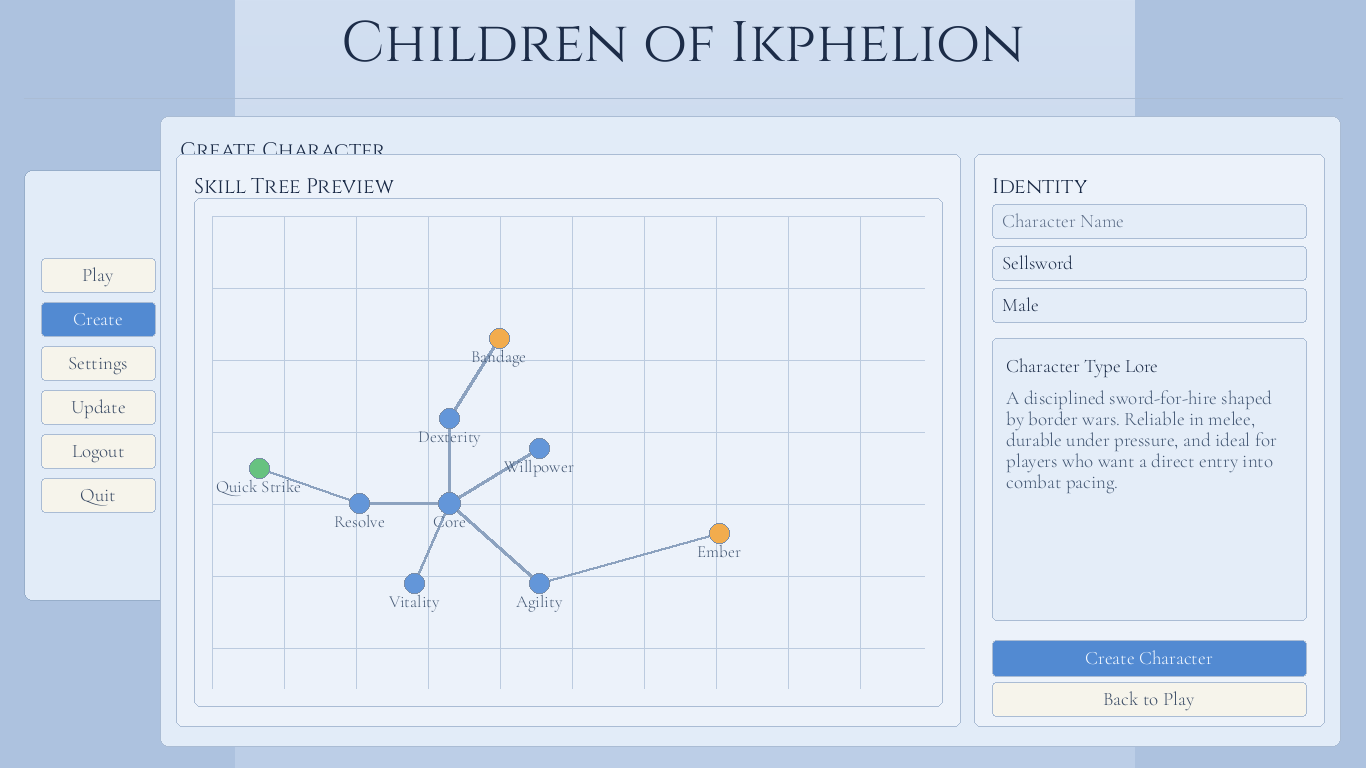
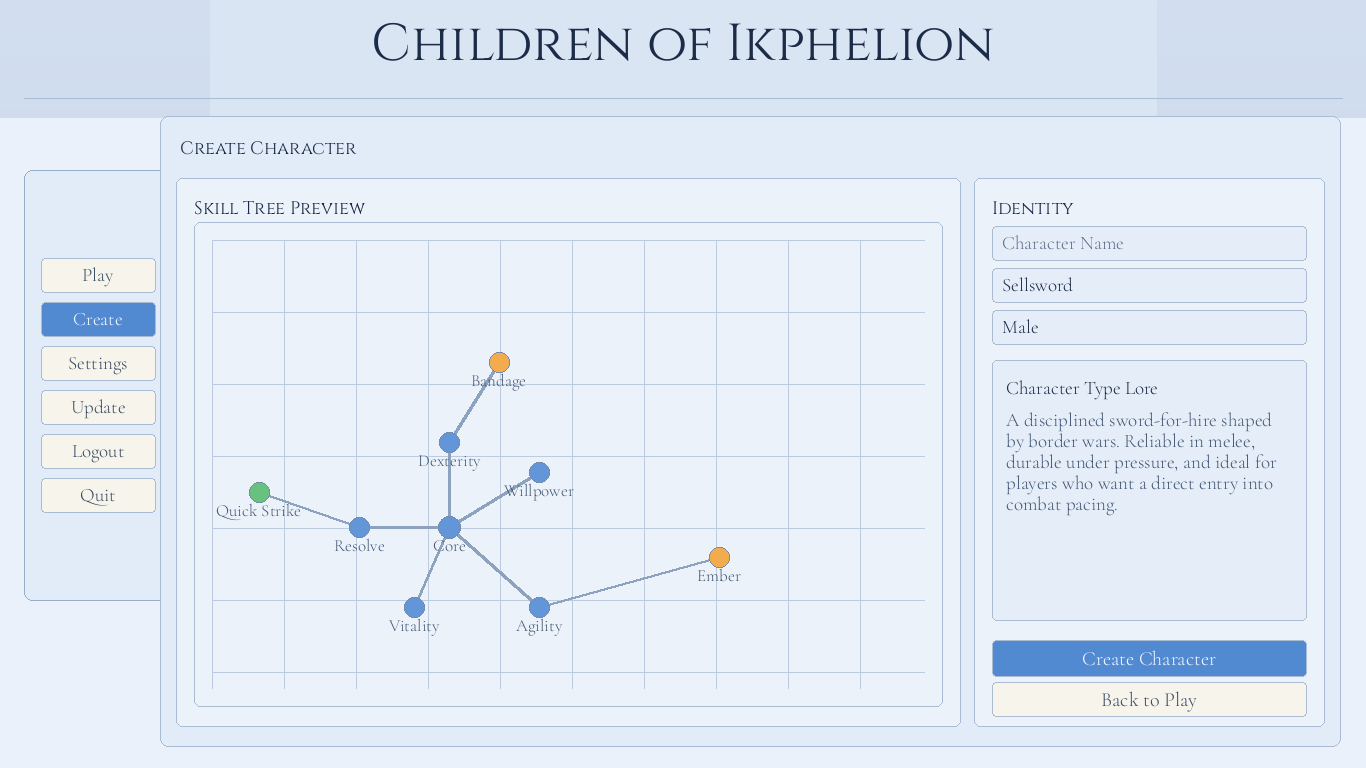
Refine UI concept art alignment, clipping, and background treatment

diff --git a/tools/generate_ui_polish_concepts.py b/tools/generate_ui_polish_concepts.py
@@ -11,9 +11,8 @@ OUT_DIR = ROOT / "concept_art"
 W, H = 1366, 768
 
 COLORS = {
-    "bg_top": (210, 223, 241),
-    "bg_bottom": (188, 206, 231),
-    "band": (173, 194, 223, 45),
+    "bg_top": (211, 223, 240),
+    "bg_bottom": (191, 209, 232),
     "shell": (226, 236, 248, 220),
     "panel": (236, 242, 250, 245),
     "panel_alt": (228, 237, 248, 245),
@@ -43,12 +42,13 @@ def _load_font(path: Path, size: int) -> ImageFont.FreeTypeFont | ImageFont.Imag
         return ImageFont.load_default()
 
 
-FONT_TITLE = _load_font(ROOT / "game-client" / "assets" / "fonts" / "cinzel.ttf", 57)
-FONT_SUBTITLE = _load_font(ROOT / "game-client" / "assets" / "fonts" / "cinzel.ttf", 21)
+FONT_TITLE = _load_font(ROOT / "game-client" / "assets" / "fonts" / "cinzel.ttf", 52)
+FONT_SUBTITLE = _load_font(ROOT / "game-client" / "assets" / "fonts" / "cinzel.ttf", 18)
 FONT_BODY = _load_font(ROOT / "game-client" / "assets" / "fonts" / "cormorant_garamond.ttf", 27)
 FONT_BODY_SM = _load_font(ROOT / "game-client" / "assets" / "fonts" / "cormorant_garamond.ttf", 22)
 FONT_BODY_XS = _load_font(ROOT / "game-client" / "assets" / "fonts" / "cormorant_garamond.ttf", 19)
 FONT_CAPTION = _load_font(ROOT / "game-client" / "assets" / "fonts" / "cormorant_garamond.ttf", 17)
+FONT_BUTTON = _load_font(ROOT / "game-client" / "assets" / "fonts" / "cormorant_garamond.ttf", 20)
 
 
 def lerp(a: int, b: int, t: float) -> int:
@@ -94,9 +94,9 @@ def draw_background(img: Image.Image):
         c = tuple(lerp(COLORS["bg_top"][i], COLORS["bg_bottom"][i], t) for i in range(3))
         draw.line([(0, y), (W, y)], fill=c + (255,))
 
-    # Atmospheric bands for depth.
-    rounded(draw, (0, 0, 234, H), COLORS["band"], radius=0)
-    rounded(draw, (1135, 0, W, H), COLORS["band"], radius=0)
+    # Flattened atmospheric treatment: subtle center wash only.
+    rounded(draw, (210, 0, 1156, H), (218, 229, 244, 62), radius=0)
+    rounded(draw, (0, 118, W, H), (235, 241, 250, 16), radius=0)
 
     # Header area.
     draw.text((W // 2, 44), "Children of Ikphelion", anchor="mm", font=FONT_TITLE, fill=COLORS["text"])
@@ -148,7 +148,13 @@ def draw_button(draw: ImageDraw.ImageDraw, rect, label: str, primary: bool = Fal
         fill = COLORS["button"]
         tfill = COLORS["button_text"]
     rounded(draw, rect, fill, radius=4, outline=COLORS["border_soft"], width=1)
-    draw.text(((rect[0] + rect[2]) // 2, (rect[1] + rect[3]) // 2), label, anchor="mm", font=FONT_BODY_XS, fill=tfill)
+    font = FONT_BUTTON
+    max_w = rect[2] - rect[0] - 12
+    if draw.textlength(label, font=font) > max_w:
+        font = FONT_BODY_XS
+    if draw.textlength(label, font=font) > max_w:
+        font = FONT_CAPTION
+    draw.text(((rect[0] + rect[2]) // 2, (rect[1] + rect[3]) // 2), label, anchor="mm", font=font, fill=tfill)
 
 
 def draw_skill_graph(draw: ImageDraw.ImageDraw, rect, populated: bool = True):
@@ -276,8 +282,11 @@ def screen_update() -> Image.Image:
     ]
     y = 300
     for note in notes:
-        draw.text((360, y), f"- {note}", font=FONT_BODY_XS, fill=COLORS["text_soft"])
-        y += 34
+        lines = wrap_text(draw, f"- {note}", FONT_BODY_XS, 680)
+        for line in lines:
+            draw.text((360, y), line, font=FONT_BODY_XS, fill=COLORS["text_soft"])
+            y += 24
+        y += 8
 
     draw_button(draw, (332, 532, 720, 570), "Check for Update", primary=True)
     draw_button(draw, (730, 532, 1066, 570), "View Logs")
@@ -288,39 +297,40 @@ def draw_play_layout(img: Image.Image, selected: bool):
     draw = ImageDraw.Draw(img, "RGBA")
     shell = (160, 116, 1340, 746)
     draw_shell(img, shell, "Character Hub")
+    content_top = 178
 
     # Roster
-    rounded(draw, (176, 154, 370, 726), COLORS["panel"], radius=6, outline=COLORS["border_soft"], width=1)
-    draw.text((192, 172), "Characters", font=FONT_SUBTITLE, fill=COLORS["text"])
-    draw_button(draw, (190, 202, 356, 236), "Create Character", primary=not selected)
+    rounded(draw, (176, content_top, 370, 726), COLORS["panel"], radius=6, outline=COLORS["border_soft"], width=1)
+    draw.text((192, content_top + 18), "Characters", font=FONT_SUBTITLE, fill=COLORS["text"])
+    draw_button(draw, (190, content_top + 48, 356, content_top + 82), "Create Character", primary=not selected)
 
     if selected:
-        rounded(draw, (190, 250, 356, 296), COLORS["primary"], radius=4, outline=COLORS["border_soft"], width=1)
-        draw.text((204, 262), "Sellsword", font=FONT_BODY_XS, fill=COLORS["primary_text"])
-        draw.text((204, 280), "Level 5  |  Ironhold", font=FONT_CAPTION, fill=COLORS["primary_text"])
-        rounded(draw, (190, 304, 356, 350), COLORS["panel_alt"], radius=4, outline=COLORS["border_soft"], width=1)
-        draw.text((204, 316), "Scout", font=FONT_BODY_XS, fill=COLORS["text"])
-        draw.text((204, 334), "Level 2  |  Khar Grotto", font=FONT_CAPTION, fill=COLORS["text_muted"])
+        rounded(draw, (190, content_top + 96, 356, content_top + 142), COLORS["primary"], radius=4, outline=COLORS["border_soft"], width=1)
+        draw.text((204, content_top + 108), "Sellsword", font=FONT_BODY_XS, fill=COLORS["primary_text"])
+        draw.text((204, content_top + 126), "Level 5  |  Ironhold", font=FONT_CAPTION, fill=COLORS["primary_text"])
+        rounded(draw, (190, content_top + 150, 356, content_top + 196), COLORS["panel_alt"], radius=4, outline=COLORS["border_soft"], width=1)
+        draw.text((204, content_top + 162), "Scout", font=FONT_BODY_XS, fill=COLORS["text"])
+        draw.text((204, content_top + 180), "Level 2  |  Khar Grotto", font=FONT_CAPTION, fill=COLORS["text_muted"])
     else:
-        draw_text_box(draw, (192, 258), "No characters yet. Create your first hero to begin.", FONT_BODY_XS, COLORS["text_muted"], 156)
+        draw_text_box(draw, (192, content_top + 104), "No characters yet. Create your first hero to begin.", FONT_BODY_XS, COLORS["text_muted"], 156)
 
     # Graph area
-    rounded(draw, (384, 154, 1120, 726), COLORS["panel"], radius=6, outline=COLORS["border_soft"], width=1)
-    draw.text((402, 172), "Skill Tree", font=FONT_SUBTITLE, fill=COLORS["text"])
-    draw_skill_graph(draw, (402, 198, 1102, 706), populated=selected)
+    rounded(draw, (384, content_top, 1120, 726), COLORS["panel"], radius=6, outline=COLORS["border_soft"], width=1)
+    draw.text((402, content_top + 18), "Skill Tree", font=FONT_SUBTITLE, fill=COLORS["text"])
+    draw_skill_graph(draw, (402, content_top + 44, 1102, 706), populated=selected)
 
     # Details
-    rounded(draw, (1134, 154, 1324, 726), COLORS["panel"], radius=6, outline=COLORS["border_soft"], width=1)
-    draw.text((1148, 172), "Character Details", font=FONT_SUBTITLE, fill=COLORS["text"])
+    rounded(draw, (1134, content_top, 1324, 726), COLORS["panel"], radius=6, outline=COLORS["border_soft"], width=1)
+    draw.text((1148, content_top + 18), "Character Details", font=FONT_SUBTITLE, fill=COLORS["text"])
     if selected:
         info = "Name: Sellsword\nClass: Mercenary\nSex: Male\nZone: Ironhold\nFacing: East"
-        draw_text_box(draw, (1148, 206), info, FONT_BODY_XS, COLORS["text_soft"], 156)
-        draw.text((1148, 380), "Spawn Override (Admin)", font=FONT_CAPTION, fill=COLORS["text_muted"])
-        draw_input(draw, (1148, 398, 1310, 430), "Current location", "Current location")
+        draw_text_box(draw, (1148, content_top + 52), info, FONT_BODY_XS, COLORS["text_soft"], 156)
+        draw.text((1148, content_top + 226), "Spawn Override (Admin)", font=FONT_CAPTION, fill=COLORS["text_muted"])
+        draw_input(draw, (1148, content_top + 244, 1310, content_top + 276), "Current location", "Current location")
         draw_button(draw, (1148, 680, 1230, 714), "Play", primary=True)
         draw_button(draw, (1234, 680, 1310, 714), "Delete")
     else:
-        draw_text_box(draw, (1148, 206), "Select a character to inspect details and launch gameplay.", FONT_BODY_XS, COLORS["text_muted"], 154)
+        draw_text_box(draw, (1148, content_top + 52), "Select a character to inspect details and launch gameplay.", FONT_BODY_XS, COLORS["text_muted"], 154)
         draw_button(draw, (1148, 680, 1230, 714), "Play", disabled=True)
         draw_button(draw, (1234, 680, 1310, 714), "Delete", disabled=True)
 
@@ -343,24 +353,25 @@ def screen_create_character() -> Image.Image:
     shell = (160, 116, 1340, 746)
     draw_shell(img, shell, "Create Character")
 
-    rounded(draw, (176, 154, 960, 726), COLORS["panel"], radius=6, outline=COLORS["border_soft"], width=1)
-    draw.text((194, 172), "Skill Tree Preview", font=FONT_SUBTITLE, fill=COLORS["text"])
-    draw_skill_graph(draw, (194, 198, 942, 706), populated=True)
+    content_top = 178
+    rounded(draw, (176, content_top, 960, 726), COLORS["panel"], radius=6, outline=COLORS["border_soft"], width=1)
+    draw.text((194, content_top + 18), "Skill Tree Preview", font=FONT_SUBTITLE, fill=COLORS["text"])
+    draw_skill_graph(draw, (194, content_top + 44, 942, 706), populated=True)
 
-    rounded(draw, (974, 154, 1324, 726), COLORS["panel"], radius=6, outline=COLORS["border_soft"], width=1)
-    draw.text((992, 172), "Identity", font=FONT_SUBTITLE, fill=COLORS["text"])
-    draw_input(draw, (992, 204, 1306, 238), "Character Name")
-    draw_input(draw, (992, 246, 1306, 280), "Character Type", "Sellsword")
-    draw_input(draw, (992, 288, 1306, 322), "Sex", "Male")
+    rounded(draw, (974, content_top, 1324, 726), COLORS["panel"], radius=6, outline=COLORS["border_soft"], width=1)
+    draw.text((992, content_top + 18), "Identity", font=FONT_SUBTITLE, fill=COLORS["text"])
+    draw_input(draw, (992, content_top + 48, 1306, content_top + 82), "Character Name")
+    draw_input(draw, (992, content_top + 90, 1306, content_top + 124), "Character Type", "Sellsword")
+    draw_input(draw, (992, content_top + 132, 1306, content_top + 166), "Sex", "Male")
 
-    rounded(draw, (992, 338, 1306, 620), COLORS["panel_alt"], radius=5, outline=COLORS["border_soft"], width=1)
-    draw.text((1006, 354), "Character Type Lore", font=FONT_BODY_XS, fill=COLORS["text"])
+    rounded(draw, (992, content_top + 182, 1306, 620), COLORS["panel_alt"], radius=5, outline=COLORS["border_soft"], width=1)
+    draw.text((1006, content_top + 198), "Character Type Lore", font=FONT_BODY_XS, fill=COLORS["text"])
     lore = (
         "A disciplined sword-for-hire shaped by border wars. "
         "Reliable in melee, durable under pressure, and ideal for players "
         "who want a direct entry into combat pacing."
     )
-    draw_text_box(draw, (1006, 386), lore, FONT_BODY_XS, COLORS["text_soft"], 286)
+    draw_text_box(draw, (1006, content_top + 230), lore, FONT_BODY_XS, COLORS["text_soft"], 286)
 
     draw_button(draw, (992, 640, 1306, 676), "Create Character", primary=True)
     draw_button(draw, (992, 682, 1306, 716), "Back to Play")
@@ -372,7 +383,7 @@ def draw_settings_header(draw: ImageDraw.ImageDraw, shell):
     tabs = ["Video", "Audio", "Security"]
     for idx, tab in enumerate(tabs):
         tx0 = x0 + 24 + idx * 96
-        rect = (tx0, y0 + 42, tx0 + 88, y0 + 74)
+        rect = (tx0, y0 + 42, tx0 + 92, y0 + 76)
         draw_button(draw, rect, tab, primary=False)
 
 
@@ -435,9 +446,9 @@ def screen_settings_security() -> Image.Image:
 
     rounded(draw, (220, 222, 1280, 704), COLORS["panel"], radius=6, outline=COLORS["border_soft"], width=1)
     draw.text((242, 244), "Multi-factor Authentication", font=FONT_SUBTITLE, fill=COLORS["text"])
-    draw_button(draw, (922, 242, 1060, 276), "MFA: ON", primary=True)
-    draw_button(draw, (1072, 242, 1200, 276), "Refresh QR")
-    draw_button(draw, (1212, 242, 1266, 276), "Copy URI")
+    draw_button(draw, (860, 242, 998, 276), "MFA: ON", primary=True)
+    draw_button(draw, (1012, 242, 1144, 276), "Refresh QR")
+    draw_button(draw, (1158, 242, 1260, 276), "Copy URI")
 
     rounded(draw, (242, 298, 706, 650), COLORS["panel_alt"], radius=5, outline=COLORS["border_soft"], width=1)
     # stylized qr blocks

diff --git a/docs/TASKS.md b/docs/TASKS.md
@@ -12,6 +12,7 @@ Status legend: `⬜` not started, `⏳` in progress/blocked, `✅` done.
 ## Completed
 | Task ID | Status | Complexity | Detailed Description |
 | --- | --- | --- | --- |
+| COI-2D-036 | ✅ | 2 | Completed a second-pass refinement of UI concept renders by fixing text/button clipping, panel alignment drift, title overlap, and background layering artifacts across all concept screens. |
 | COI-2D-035 | ✅ | 3 | Added release-pipeline artifact-retention pruning in GCS so each publish removes feed/archive versions older than the current build and keeps latest-only storage by default. |
 | COI-2D-034 | ✅ | 2 | Produced a full UI polish concept pack (`concept_art/`) with one screen per major menu (auth, update, play empty/selected, create, settings tabs) to validate a non-incremental minimal UX direction before implementation. |
 | COI-2D-033 | ✅ | 2 | Reworked auth form composition into a tighter shell with narrower login/register cards, shorter input/button controls, and contextual-only status messaging to remove oversized/empty form space. |
